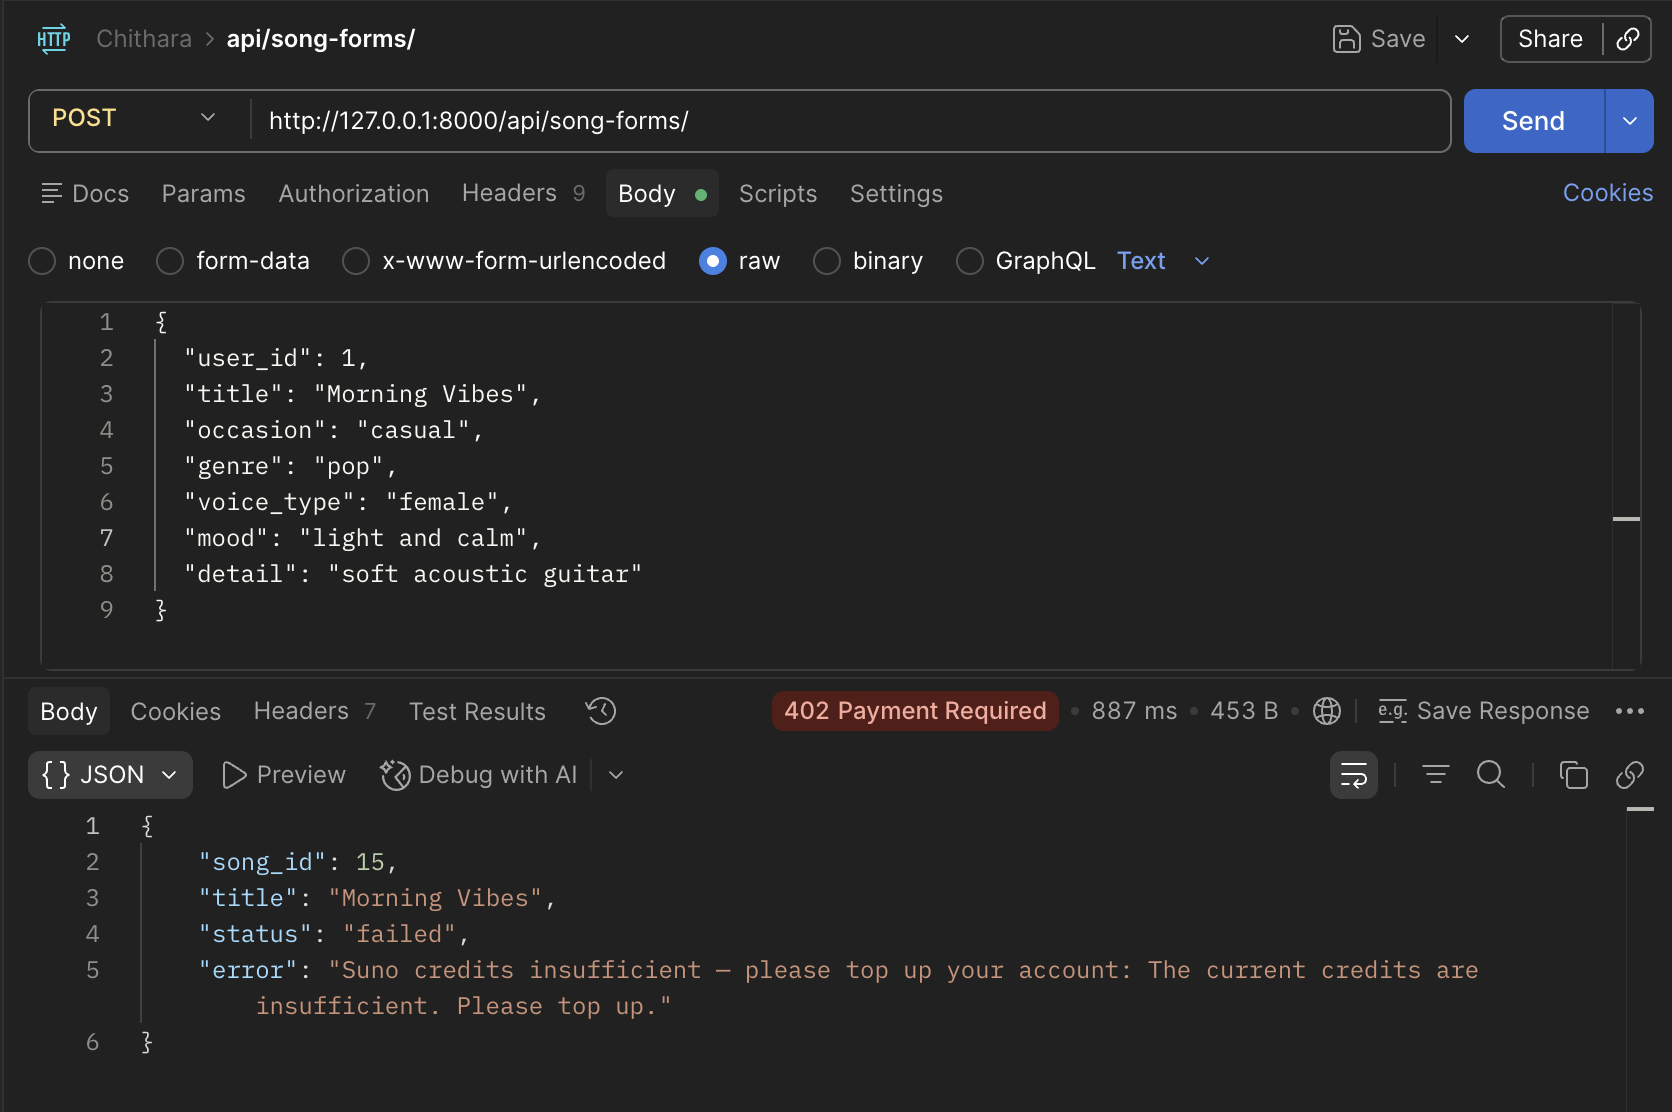
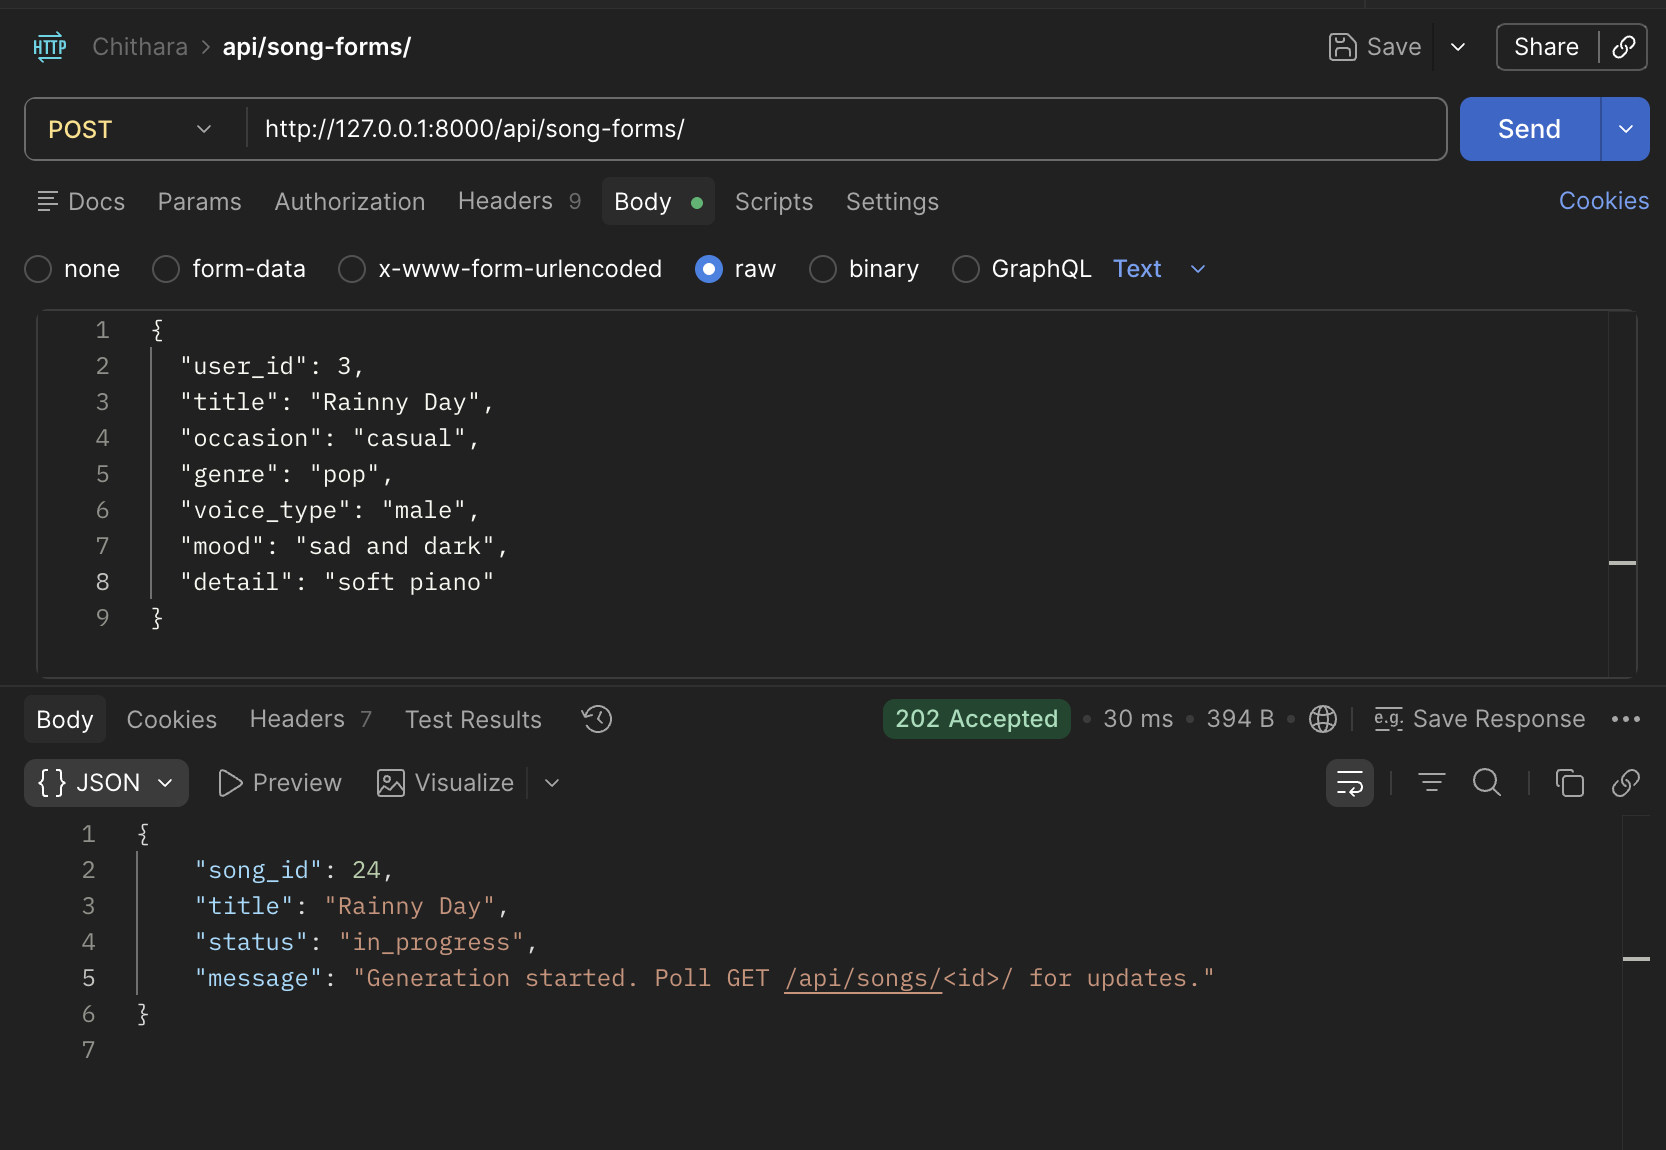
update README.md on how to test new suno strategy to use background thread

diff --git a/README.md b/README.md
@@ -133,7 +133,7 @@ Demonstration
 
 ### How to run in Suno mode
 
-Requires a valid `SUNO_API_KEY`. Generation takes 2–3 minutes while the server polls for completion.
+Requires a valid `SUNO_API_KEY`. Generation runs in a **background thread** — the API returns `202 Accepted` immediately so the user is never blocked.
 
 ```bash
 # Option A — set in .env
@@ -144,29 +144,58 @@ SUNO_API_KEY=your_key_here
 GENERATOR_STRATEGY=suno SUNO_API_KEY=your_key python manage.py runserver
 ```
 
-Send the same Postman request as above. You will see polling logs in the terminal:
-```
-[Suno] Task created: 35d98d3a77345d036ea088b53af4eee0
-[Suno] Attempt 1/40 — status: PENDING
-[Suno] Attempt 2/40 — status: PENDING
-[Suno] Attempt 3/40 — status: TEXT_SUCCESS
-[Suno] Attempt 9/40 — status: FIRST_SUCCESS
-[Suno] Attempt 12/40 — status: SUCCESS
+**Step 1 — Submit the generation request:**
+```bash
+curl -X POST http://127.0.0.1:8000/api/song-forms/ \
+  -H "Content-Type: application/json" \
+  -d '{
+    "user_id": 1,
+    "title": "Morning Vibes",
+    "occasion": "casual",
+    "genre": "pop",
+    "voice_type": "male",
+    "mood": "light and calm",
+    "detail": "soft acoustic guitar"
+  }'
 ```
 
-Expected response (after ~2–3 minutes):
+The server responds **instantly** with `HTTP 202`:
 ```json
 {
   "song_id": 2,
   "title": "Morning Vibes",
+  "status": "in_progress",
+  "message": "Generation started. Poll GET /api/songs/<id>/ for updates."
+}
+```
+
+**Step 2 — Poll for the result:**
+```bash
+curl http://127.0.0.1:8000/api/songs/2/
+```
+
+Keep polling every 15–30 seconds. You will see the status progress through:
+- `in_progress` — Suno is still generating
+- `success` — song is ready, `song_link` and `cover_image` are populated
+- `failed` — generation failed (quota, API error, etc.)
+
+Expected success response (after ~2–3 minutes):
+```json
+{
+  "id": 2,
+  "title": "Morning Vibes",
   "status": "success",
-  "song_link": "https://musicfile.removeai.ai/...",
-  "duration": 180,
-  "task_id": "35d98d3a77345d036ea088b53af4eee0"
+  "song_link": "https://tempfile.aiquickdraw.com/r/....mp3",
+  "cover_image": "https://musicfile.removeai.ai/....jpeg",
+  "duration": 211,
+  "created_by": "Peerawat",
+  "create_at": "2026-04-23 15:49:38+00:00",
+  "library_id": 1
 }
 ```
 Demonstration
 ![Chithara Preview](./assets/test_suno_strategy.png)
+![Chithara Preview](./assets/test_suno_strategy_2.png)
 
 ---
 
